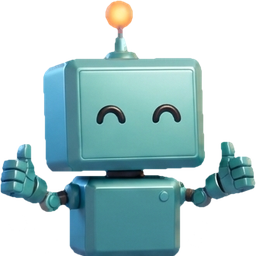
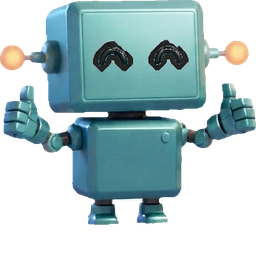
Neuer Roboter (Antennen seitlich), weiße Reste zwischen den Beinen der neuen Avatare entfernt
Claude-Session: https://claude.ai/code/session_01XuEgEKXH5CVDx1qfGUkAmV

diff --git a/public/js/app.js b/public/js/app.js
@@ -132,7 +132,7 @@
       return `<img class="bit ${esc(b.kind || '')}" src="${esc(b.src)}" alt="" draggable="false" style="--dir:${i % 2 ? 'reverse' : 'normal'};left:${b.x}%;top:${b.y}%;width:${b.w}%;height:${b.h}%;--ax:${ax}cqmin;--ay:${ay}cqmin;--ar:${ar}deg;--bt:${dur}s;--bd:-${(now + i * 1.7).toFixed(2)}s">`;
     }).join('');
   }
-  const glowHTML = (a) => (a.glow ? `<i class="orb" style="left:${a.glow.x}%;top:${a.glow.y}%;width:${a.glow.s}%"></i>` : '');
+  const glowHTML = (a) => [].concat(a.glow || []).map((g, i) => `<i class="orb" style="left:${g.x}%;top:${g.y}%;width:${g.s}%;animation-delay:-${(((Date.now() / 1000) % 60) + i * 1.2).toFixed(2)}s"></i>`).join('');
   function eyesHTML(a) {
     const box = (e) => `left:${e.x}%;top:${e.y}%;width:${e.w}%;height:${e.h}%`;
     let h = '';

diff --git a/public/sw.js b/public/sw.js
@@ -1,7 +1,7 @@
 'use strict';
 /* UNKNOWN – Service Worker: App-Hülle und Bilder offline zwischenspeichern.
    Spielstand läuft ausschließlich über WebSocket und wird nie gecacht. */
-const VERSION = 'unknown-v51';
+const VERSION = 'unknown-v53';
 const SHELL = ['/', '/css/style.css', '/js/app.js', '/data/sets.json', '/data/avatars.json', '/manifest.webmanifest', '/assets/logo.png'];
 
 self.addEventListener('install', (e) => {
